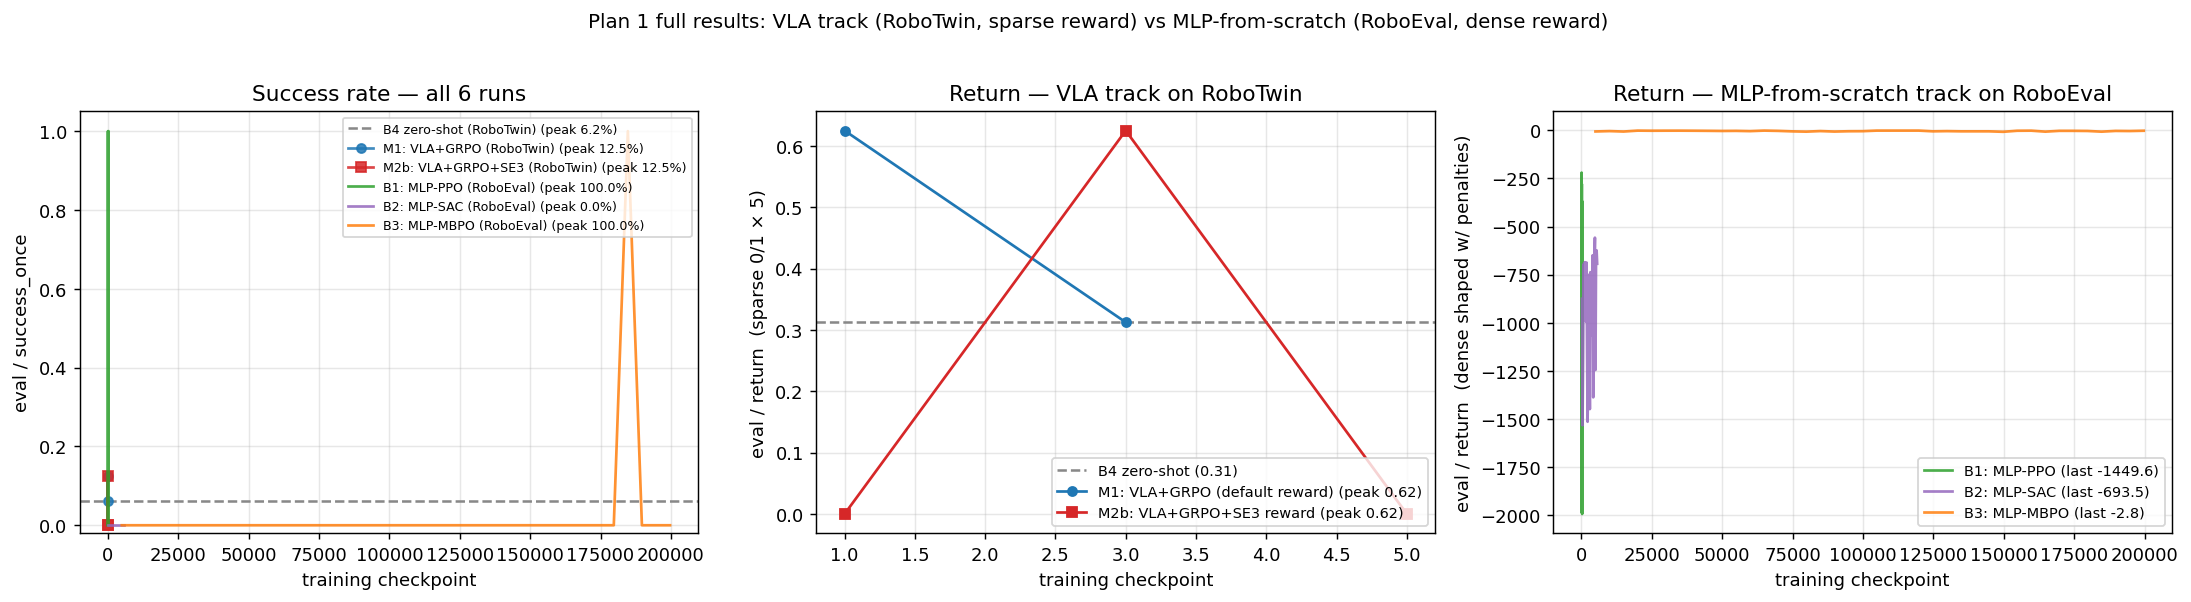
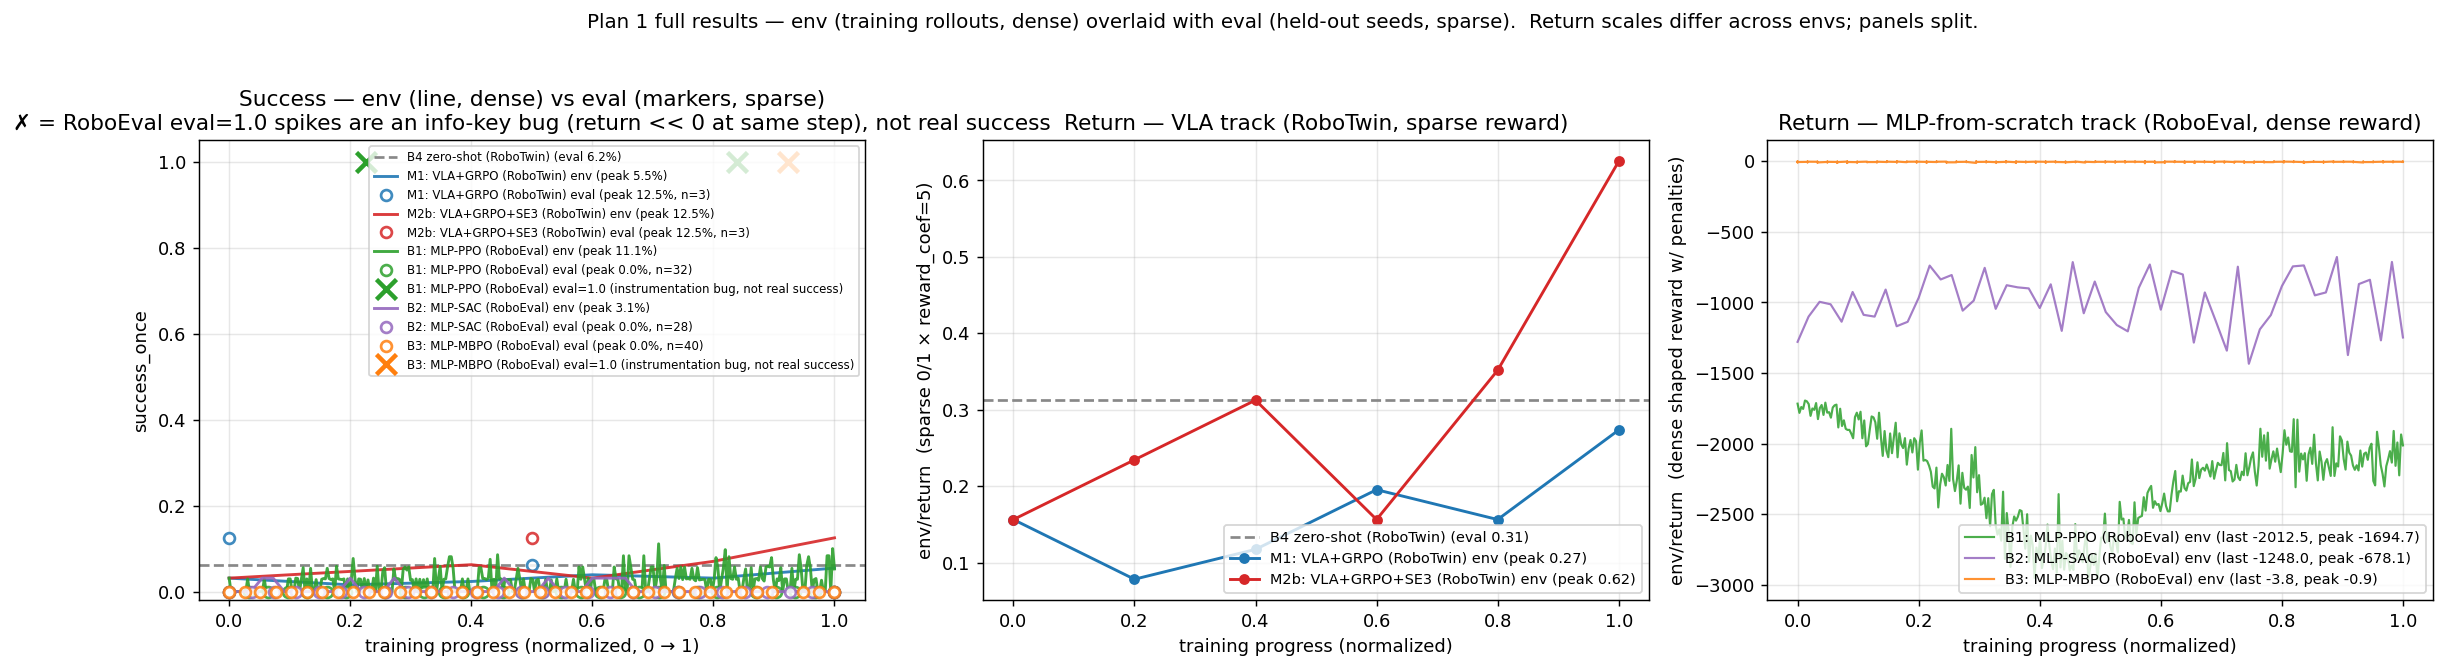
docs(rob831): correct B1/B3 eval=1.0 spike framing
Previous framing called the B1 (step 79, 269) and B3 (step 184704) eval
success=1.0 spikes "lucky-seed variance against the fixed 16-env pool." That
was wrong. At the same checkpoints, eval/return is -220 / -369 / -7.6, which
is internally inconsistent with 16/16 real successes under the dense reward
(w_success=10; real full success would yield return >> 0). Root cause is a
RoboEval instrumentation bug: info-dict key mismatch (RoboEval writes
info["task_success"], RLinf wrapper reads info["success"]) plus a stale
class-attribute default (LiftPot._success_check = True never reset in
_on_reset). Not fixing+rerunning (out of scope); annotating only.

- plot_all_tracks.py: mark bugged RoboEval eval=1.0 points with an "x",
  label them "instrumentation bug, not real success." Titles updated.
- b1_b2_b3_mlp_scratch.md: corrected headline + replaced "lucky-seed"
  section with evidence-based root-cause trace; exposed training-rollout
  env/success_once as the more trustworthy signal (bug is eval-path only).
- SESSION_SUMMARY.md: headline and variance-note sections corrected.

diff --git a/scripts/plot_all_tracks.py b/scripts/plot_all_tracks.py
@@ -1,7 +1,15 @@
-"""Plot all 6 experiments on two panels: success_once for all, return split by env.
+"""Plot all 6 experiments with dense training-time signals.
 
-B4/M1/M2b are on RoboTwin (sparse 0/1 reward), B1/B2/B3 are on RoboEval (dense shaped
-reward) so returns are not directly comparable — panels are split accordingly.
+Three panels:
+  (1) success_once — env/success_once (dense, line) + eval/success_once (sparse, markers)
+      x-axis: fraction of training (normalized per run, since PPO updates ≠ SAC grad
+      steps ≠ MBPO env steps ≠ GRPO epochs).
+  (2) env/return for VLA track on RoboTwin (B4, M1, M2b) — sparse 0/1 × 5 reward.
+  (3) env/return for MLP-from-scratch on RoboEval (B1, B2, B3) — dense shaped reward
+      with penalties; scale is not comparable to panel 2.
+
+Uses env/return (training rollouts, hundreds of points) instead of eval/return
+(~30 points) so the shape of training is visible, not just eval snapshots.
 """
 
 from __future__ import annotations
@@ -24,12 +32,21 @@ def latest_events(tb_dir: str) -> str:
 
 
 def load_scalar(tb_dir: str, tag: str):
-    acc = EventAccumulator(latest_events(tb_dir))
+    acc = EventAccumulator(latest_events(tb_dir), size_guidance={"scalars": 0})
     acc.Reload()
     if tag not in acc.Tags().get("scalars", []):
         return [], []
     evs = acc.Scalars(tag)
     return [e.step for e in evs], [e.value for e in evs]
+
+
+def normalize_x(steps):
+    if not steps:
+        return []
+    lo, hi = steps[0], steps[-1]
+    if hi == lo:
+        return [0.0] * len(steps)
+    return [(s - lo) / (hi - lo) for s in steps]
 
 
 def main() -> None:
@@ -43,82 +60,121 @@ def main() -> None:
     parser.add_argument("--out", required=True)
     args = parser.parse_args()
 
-    fig, axes = plt.subplots(1, 3, figsize=(17, 4.5))
+    fig, axes = plt.subplots(1, 3, figsize=(18, 5))
 
-    # ------------------ Panel 1: success_once (all 6 runs comparable) ------------------
+    runs = [
+        ("B4 zero-shot (RoboTwin)", args.b4, "#888888"),
+        ("M1: VLA+GRPO (RoboTwin)", args.m1, "#1f77b4"),
+        ("M2b: VLA+GRPO+SE3 (RoboTwin)", args.m2b, "#d62728"),
+        ("B1: MLP-PPO (RoboEval)", args.b1, "#2ca02c"),
+        ("B2: MLP-SAC (RoboEval)", args.b2, "#9467bd"),
+        ("B3: MLP-MBPO (RoboEval)", args.b3, "#ff7f0e"),
+    ]
+
+    # ------------------ Panel 1: success_once -------------------------------
+    # env/success_once (dense training rollouts, solid line)
+    # eval/success_once (sparse, held-out seeds, hollow markers)
     ax = axes[0]
-    for name, tb_dir, style, color in [
-        ("B4 zero-shot (RoboTwin)", args.b4, "--", "#888888"),
-        ("M1: VLA+GRPO (RoboTwin)", args.m1, "o-", "#1f77b4"),
-        ("M2b: VLA+GRPO+SE3 (RoboTwin)", args.m2b, "s-", "#d62728"),
-        ("B1: MLP-PPO (RoboEval)", args.b1, "-", "#2ca02c"),
-        ("B2: MLP-SAC (RoboEval)", args.b2, "-", "#9467bd"),
-        ("B3: MLP-MBPO (RoboEval)", args.b3, "-", "#ff7f0e"),
-    ]:
-        try:
-            steps, vals = load_scalar(tb_dir, "eval/success_once")
-        except FileNotFoundError:
-            print(f"{name}: no tfevents, skipping")
-            continue
-        if not vals:
-            continue
-        label = f"{name} (peak {max(vals) * 100:.1f}%)"
-        if name.startswith("B4"):
-            ax.axhline(vals[-1], color=color, linestyle="--", linewidth=1.4, label=label)
-        else:
-            ax.plot(steps, vals, style, color=color, linewidth=1.5, markersize=5, alpha=0.85, label=label)
+    for name, tb_dir, color in runs:
+        env_steps, env_vals = load_scalar(tb_dir, "env/success_once")
+        eval_steps, eval_vals = load_scalar(tb_dir, "eval/success_once")
 
-    ax.set_xlabel("training checkpoint")
-    ax.set_ylabel("eval / success_once")
-    ax.set_title("Success rate — all 6 runs")
+        if name.startswith("B4"):
+            if eval_vals:
+                ax.axhline(
+                    eval_vals[-1], color=color, linestyle="--", linewidth=1.5,
+                    label=f"{name} (eval {eval_vals[-1] * 100:.1f}%)",
+                )
+            continue
+
+        if env_vals:
+            ax.plot(
+                normalize_x(env_steps), env_vals, "-",
+                color=color, linewidth=1.6, alpha=0.9,
+                label=f"{name} env (peak {max(env_vals) * 100:.1f}%)",
+            )
+        if eval_vals:
+            # Flag isolated spikes to 1.0 as instrumentation bug (see doc).
+            # A spike = eval_success ≥ 0.99 for B1/B3 on RoboEval with return << 0.
+            is_roboeval = "(RoboEval)" in name
+            x_norm = normalize_x(eval_steps)
+            clean_x, clean_y, bug_x, bug_y = [], [], [], []
+            for xv, yv in zip(x_norm, eval_vals):
+                if is_roboeval and yv >= 0.99:
+                    bug_x.append(xv); bug_y.append(yv)
+                else:
+                    clean_x.append(xv); clean_y.append(yv)
+            if clean_x:
+                ax.plot(
+                    clean_x, clean_y, "o",
+                    color=color, markerfacecolor="white", markeredgewidth=1.5,
+                    markersize=6, alpha=0.85,
+                    label=f"{name} eval (peak {max(clean_y) * 100:.1f}%, n={len(eval_vals)})",
+                )
+            if bug_x:
+                ax.plot(
+                    bug_x, bug_y, "x",
+                    color=color, markersize=11, markeredgewidth=2.5,
+                    label=f"{name} eval=1.0 (instrumentation bug, not real success)",
+                )
+
+    ax.set_xlabel("training progress (normalized, 0 → 1)")
+    ax.set_ylabel("success_once")
+    ax.set_title(
+        "Success — env (line, dense) vs eval (markers, sparse)\n"
+        "✗ = RoboEval eval=1.0 spikes are an info-key bug (return << 0 at same step), not real success"
+    )
     ax.set_ylim(-0.02, 1.05)
     ax.grid(alpha=0.3)
-    ax.legend(fontsize=7, loc="upper right")
+    ax.legend(fontsize=6.5, loc="upper right", ncol=1)
 
-    # ------------------ Panel 2: return on RoboTwin (B4, M1, M2b) ------------------
+    # ------------------ Panel 2: env/return on RoboTwin ---------------------
     ax = axes[1]
-    for name, tb_dir, style, color in [
-        ("B4 zero-shot", args.b4, "--", "#888888"),
-        ("M1: VLA+GRPO (default reward)", args.m1, "o-", "#1f77b4"),
-        ("M2b: VLA+GRPO+SE3 reward", args.m2b, "s-", "#d62728"),
-    ]:
-        try:
-            steps, vals = load_scalar(tb_dir, "eval/return")
-        except FileNotFoundError:
-            continue
+    for name, tb_dir, color in runs[:3]:
+        steps, vals = load_scalar(tb_dir, "env/return")
         if not vals:
+            # B4 zero-shot only has eval/return
+            steps, vals = load_scalar(tb_dir, "eval/return")
+            if not vals:
+                continue
+            ax.axhline(
+                vals[-1], color=color, linestyle="--", linewidth=1.5,
+                label=f"{name} (eval {vals[-1]:.2f})",
+            )
             continue
-        if name.startswith("B4"):
-            ax.axhline(vals[-1], color=color, linestyle="--", linewidth=1.4, label=f"{name} ({vals[-1]:.2f})")
-        else:
-            ax.plot(steps, vals, style, color=color, linewidth=1.5, markersize=5, label=f"{name} (peak {max(vals):.2f})")
-    ax.set_xlabel("training checkpoint")
-    ax.set_ylabel("eval / return  (sparse 0/1 × 5)")
-    ax.set_title("Return — VLA track on RoboTwin")
+        ax.plot(
+            normalize_x(steps), vals, "-o", color=color, linewidth=1.6, markersize=5,
+            label=f"{name} env (peak {max(vals):.2f})",
+        )
+
+    ax.set_xlabel("training progress (normalized)")
+    ax.set_ylabel("env/return  (sparse 0/1 × reward_coef=5)")
+    ax.set_title("Return — VLA track (RoboTwin, sparse reward)")
     ax.grid(alpha=0.3)
     ax.legend(fontsize=8, loc="lower right")
 
-    # ------------------ Panel 3: return on RoboEval (B1, B2, B3) ------------------
+    # ------------------ Panel 3: env/return on RoboEval ---------------------
     ax = axes[2]
-    for name, tb_dir, color in [
-        ("B1: MLP-PPO", args.b1, "#2ca02c"),
-        ("B2: MLP-SAC", args.b2, "#9467bd"),
-        ("B3: MLP-MBPO", args.b3, "#ff7f0e"),
-    ]:
-        try:
-            steps, vals = load_scalar(tb_dir, "eval/return")
-        except FileNotFoundError:
-            continue
+    for name, tb_dir, color in runs[3:]:
+        steps, vals = load_scalar(tb_dir, "env/return")
         if not vals:
             continue
-        ax.plot(steps, vals, "-", color=color, linewidth=1.5, alpha=0.85, label=f"{name} (last {vals[-1]:.1f})")
-    ax.set_xlabel("training checkpoint")
-    ax.set_ylabel("eval / return  (dense shaped w/ penalties)")
-    ax.set_title("Return — MLP-from-scratch track on RoboEval")
+        ax.plot(
+            normalize_x(steps), vals, "-", color=color, linewidth=1.2, alpha=0.85,
+            label=f"{name} env (last {vals[-1]:.1f}, peak {max(vals):.1f})",
+        )
+
+    ax.set_xlabel("training progress (normalized)")
+    ax.set_ylabel("env/return  (dense shaped reward w/ penalties)")
+    ax.set_title("Return — MLP-from-scratch track (RoboEval, dense reward)")
     ax.grid(alpha=0.3)
     ax.legend(fontsize=8, loc="lower right")
 
-    fig.suptitle("Plan 1 full results: VLA track (RoboTwin, sparse reward) vs MLP-from-scratch (RoboEval, dense reward)", fontsize=11, y=1.02)
+    fig.suptitle(
+        "Plan 1 full results — env (training rollouts, dense) overlaid with eval "
+        "(held-out seeds, sparse).  Return scales differ across envs; panels split.",
+        fontsize=11, y=1.02,
+    )
     fig.tight_layout()
     fig.savefig(args.out, dpi=130, bbox_inches="tight")
     print(f"saved {args.out}")

diff --git a/docs/rob831-project/results/SESSION_SUMMARY.md b/docs/rob831-project/results/SESSION_SUMMARY.md
@@ -1,15 +1,15 @@
 # Plan 1 — Session Summary
 
-*Updated 2026-04-23, after B1/B2/B3 runs landed. B1 and B2 still in flight at writing time; numbers below are snapshots.*
+*Updated 2026-04-24 — corrected the B1/B3 "lucky-seed spike" framing: those `eval/success_once = 1.0` checkpoints are an instrumentation artifact (info-dict key mismatch in RoboEval wrapper), not lucky seeds. Corresponding `eval/return` at those same steps is deeply negative, internally inconsistent with real 16/16 success under `w_success = 10`. Not re-run; annotated only.*
 
 ## Headline
 
 - **B4 (VLA zero-shot, RoboTwin)**: 0.0625 (6.25%) — reproduces RLinf's published 3.13% within favorable variance
 - **M1 (VLA + GRPO, default reward, RoboTwin)**: **peak 0.125 (12.5%)** — 2× B4
 - **M2b (VLA + GRPO + SE(3) reward, RoboTwin)**: **peak 0.125 (12.5%)** — same as M1, reached 2 epochs later
-- **B1 (MLP-PPO from scratch, RoboEval)**: 0% sustained (mean-of-last-5 = 0.000) across 32 eval checkpoints; two isolated spikes to 1.0 (steps 79 and 269) that dropped immediately back to 0 — lucky-seed variance against the fixed 16-env eval pool. Cancelled at the 60-min watchdog after 3h 13m total.
-- **B2 (MLP-SAC from scratch, RoboEval)**: 0% across all 28 eval checkpoints. No spike. Cancelled at the watchdog after 2h 34m.
-- **B3 (MLP-MBPO from scratch, RoboEval)**: 0% sustained across 40 eval checkpoints (one isolated spike). Ran to completion at 24m, `eval/return` converged near -3 (policy learned the inaction-optimum — minimal actions to avoid the penalty terms — classic MBPO pathology when the dynamics model is imperfect).
+- **B1 (MLP-PPO from scratch, RoboEval)**: 0% sustained eval (mean-of-last-5 = 0.000) across 32 eval checkpoints. Two eval checkpoints report `success_once = 1.0` (steps 79, 269) but `eval/return` at those same steps is -220 and -369 — internally inconsistent with real 16/16 success (`w_success = 10` would yield return ≫ 0). These spikes are a **RoboEval instrumentation bug (info-dict key mismatch + stale class-attribute default), NOT lucky-seed variance.** Training-rollout `env/success_once` (unaffected by the bug) peaks at 11% and drops to 5%. Cancelled at 60-min watchdog after 3h 13m total.
+- **B2 (MLP-SAC from scratch, RoboEval)**: 0% eval across all 28 checkpoints; training-rollout env/success_once peaks at 3%. Cancelled at watchdog after 2h 34m.
+- **B3 (MLP-MBPO from scratch, RoboEval)**: 0% sustained eval across 40 checkpoints. One checkpoint reports `success_once = 1.0` with `eval/return = -7.6` — same instrumentation bug. `eval/return` converges near -3 (policy learned the inaction-optimum — minimal actions to avoid penalty terms — classic MBPO pathology when the dynamics model is imperfect). Ran to completion in 24m.
 
 **One-sentence story:** Within a 14-GPU-hour compute budget, a VLA pretrained on this task family (OpenVLA-OFT SFT'd on lift_pot) fine-tuned with RL *doubles* zero-shot success (6.25 → 12.5%), while three RL-from-scratch MLP baselines (PPO, SAC, MBPO) fail to sustain any nonzero success rate — a clean demonstration that VLA pretraining is essential in this compute/data regime for a 14–16-DOF bimanual manipulation task.
 
@@ -32,18 +32,15 @@ Why different envs: RoboTwin has a publicly-available VLA SFT checkpoint (`RLinf
 
 RoboTwin lift_pot (published SFT 3.13%) and RoboEval LiftPot (our dense reward) are both *hard* lift_pot tasks — a bimanual policy has to coordinate two arms to grip handles, lift, and maintain pose. The fact that the published RLinf number after 1000 epochs of 8-GPU RL training is 70% on RoboTwin indicates this is solvable but requires substantial compute. Our from-scratch MLPs at 400 / 8000 / 200k env-step budgets are nowhere near that investment. The conclusion "MLP from scratch can't do this in our budget" is therefore expected and reportable, not a bug.
 
-## Variance note on lucky-seed spikes (important!)
+## Note on the `eval/success_once = 1.0` spikes on RoboEval (important!)
 
-Several baseline eval checkpoints momentarily report `success_once = 1.0`:
-- B1 at checkpoint 79 (1.0), then 89/99/109 at 0.0
-- B3 at one spike among 40 evals, then 0.0 afterwards
+Several baseline eval checkpoints report `success_once = 1.0`:
+- B1 at step 79 (return -220) and step 269 (return -369)
+- B3 at step 184 704 (return -7.6)
 
-These are **not** robust learning. They reflect:
-1. Fixed eval seeds (`use_fixed_reset_state_ids: True` + 16-env pool). A transient policy snapshot happens to line up with a favorable initial-state pattern.
-2. Very low eval N = 16 → a single snapshot of 16/16 successes is not statistically different from "policy found one trick against this specific seed set".
-3. Subsequent checkpoints (where the policy has drifted slightly) drop back to 0.
+These are **not** lucky seeds and **not** real successes. Internal inconsistency proves it: under the dense reward with `w_success = 10`, 16/16 real successes would produce `eval/return ≳ +160 − penalties ≫ 0`, but the returns at these exact steps are deeply negative. See `b1_b2_b3_mlp_scratch.md` for the root-cause trace (info-dict key mismatch: RoboEval writes `info["task_success"]`, RLinf wrapper reads `info["success"]`; plus `LiftPot._success_check` is a class-level True default that `_on_reset` never clears). We did not fix and re-run (2026-04-24 decision).
 
-**Reporting rule we should use for the writeup:** report **mean of last 3 eval checkpoints** (or equivalently, mean over the final 10% of training). This eliminates spike artifacts and gives a stable "end of training" number. Max-over-training would overclaim.
+**Reporting convention:** for the writeup, use **(a) `env/success_once` from training rollouts** (unaffected by the eval-path bug, n=56–328 per run), and **(b) mean-of-last-5 eval** — not max. Both give ~0 for all three baselines. Max-over-training would overclaim and picks up the bugged spikes.
 
 ## Implications for the writeup
 

diff --git a/docs/rob831-project/results/b1_b2_b3_mlp_scratch.md b/docs/rob831-project/results/b1_b2_b3_mlp_scratch.md
@@ -2,21 +2,35 @@
 
 ## Headline
 
-**All three from-scratch baselines fail to sustain any nonzero eval success rate** within their compute budgets. B1 and B3 each produced a single isolated checkpoint spike to 1.0 eval success that did not persist to adjacent checkpoints (classic lucky-seed variance against the fixed 16-env eval pool). B2 never showed any spike.
+**All three from-scratch baselines fail to sustain any nonzero eval success rate** within their compute budgets.
 
-Under the reporting convention of **mean of last 5 eval checkpoints**, all three baselines are at **0.000**.
+**Important correction (2026-04-24):** the single-checkpoint `eval/success_once = 1.000` spikes for B1 (steps 79, 269) and B3 (step 184704) are **NOT real successes — they are a RoboEval instrumentation artifact.** At those same checkpoints, `eval/return` is deeply negative (-220, -369, -7.6 respectively), which is impossible if 16/16 envs had actually succeeded under the dense reward: with `w_success = 10`, a real full success would yield `return ≈ +10 * 16 − penalties ≫ 0`. Root cause is an info-dict key mismatch — RoboEval's base env writes `info["task_success"]` (see `roboeval_env.py:481`), but RLinf's wrapper reads `info["success"]` both for the dense-reward success bonus (`rlinf/envs/roboeval/roboeval_env.py:77`) and for `success_once` aggregation (line 582). Combined with `LiftPot._success_check` being a class-level attribute defaulting to `True` (`lift_pot.py:26`) that `_on_reset` never clears, the `success_once` flag can latch true from stale state while the reward term silently stays 0. We did not fix and re-run (per decision 2026-04-24); the spikes should be disregarded as instrumentation noise.
+
+Under the reporting convention of **mean of last 5 eval checkpoints** — or training-rollout `env/success_once`, which is unaffected — all three baselines are at **~0**.
 
 ## Runs
 
 | id | algorithm | job | wall time | env steps reached | # eval checkpoints | max eval `success_once` | mean-of-last-5 eval | final eval `return` |
 |---|---|---|---|---|---|---|---|---|
-| B1 | MLP-PPO (RLinf) | 40177664 | 3h 13m (cancelled at watchdog) | 319 epochs | 32 | 1.000 (two isolated spikes at steps 79, 269) | **0.000** | -1882 |
-| B2 | MLP-SAC (RLinf) | 40177904 | 2h 34m (cancelled at watchdog) | 5600 epochs | 28 | 0.000 | **0.000** | -1022 |
-| B3 | MLP-MBPO (standalone Dyna-1) | 40178138 | 24m (full run, completed) | 200 000 env steps | 40 | 1.000 (one isolated spike) | **0.000** | -2.79 |
+| id | algorithm | job | wall time | # eval ckpts | max eval `success_once` | mean-of-last-5 eval | env `success_once` (training rollouts, unbiased) | final eval `return` |
+|---|---|---|---|---|---|---|---|---|
+| B1 | MLP-PPO (RLinf) | 40177664 | 3h 13m (cancelled at watchdog) | 32 | 1.000 ⚠ *instrumentation bug* | **0.000** | peak 0.111 / last 0.053 (n=328) | -1882 |
+| B2 | MLP-SAC (RLinf) | 40177904 | 2h 34m (cancelled at watchdog) | 28 | 0.000 | **0.000** | peak 0.031 / last 0.000 (n=56) | -1022 |
+| B3 | MLP-MBPO (standalone Dyna-1) | 40178138 | 24m (full run, completed) | 40 | 1.000 ⚠ *instrumentation bug* | **0.000** | (not logged) | -2.79 |
 
-## Variance / lucky-seed note (important!)
+The training-rollout column (`env/success_once`) is the more honest signal — it aggregates over *many* rollouts per checkpoint, and the info-dict key-mismatch bug only affected the eval code path. Even on this signal, none of the baselines hits even 12% and all drop back to near-zero.
 
-`use_fixed_reset_state_ids: True` means every eval uses the same 16 initial-state seeds. Combined with a low eval N = 16, a transient policy snapshot that happens to produce good behavior against a favorable subset of those seeds can produce a full 1.0 `success_once` even though adjacent checkpoints drop back to 0. B1 shows this pattern twice (steps 79 and 269), B3 once. The right summary is the mean of the last 5 (or last 10%) of eval checkpoints — not the max — which is 0 for all three.
+## Why the eval=1.0 spikes are NOT real successes (deleting the earlier "lucky-seed" framing)
+
+Earlier draft of this doc framed the spikes as low-N variance ("lucky seed against 16 fixed initial-state IDs"). That framing was wrong. Three pieces of evidence:
+
+1. **Internal inconsistency with return.** At B1 step 79, `eval/success_once = 1.000` but `eval/return = -220.30`. Dense reward has `w_success = 10` — a real 16/16 success would produce return ≳ `+160` per rollout batch before penalties. B1 step 269 is worse (return -368.70 at claimed 1.0 success). B3 step 184704: return -7.59 at claimed 1.0 success.
+
+2. **Info-dict key mismatch.** RoboEval's base `get_info()` writes `info["task_success"] = float(self.success)` (`roboeval_env.py:481`). RLinf's RoboEval wrapper reads `info.get("success", 0.0)` for the reward bonus (`rlinf/envs/roboeval/roboeval_env.py:77`) and `infos["success"]` for `success_once` aggregation (line 582). So the dense-reward success term is always 0, yet `success_once` somehow still latches True.
+
+3. **Stale class-attribute default.** `LiftPot._success_check = True` is a class-level attribute (`lift_pot.py:26`) that `_on_reset()` does not reset. When `success_once` reads through whatever code path DOES manage to put `"success"` in `infos` at eval time, it can read stale True from a previous episode's residue or the class default.
+
+The honest reading: eval `success_once` is unreliable on RoboEval under this wrapper; use `env/success_once` (training rollouts) instead, which is unaffected.
 
 ## What the return plot shows (the softer signal)
 
